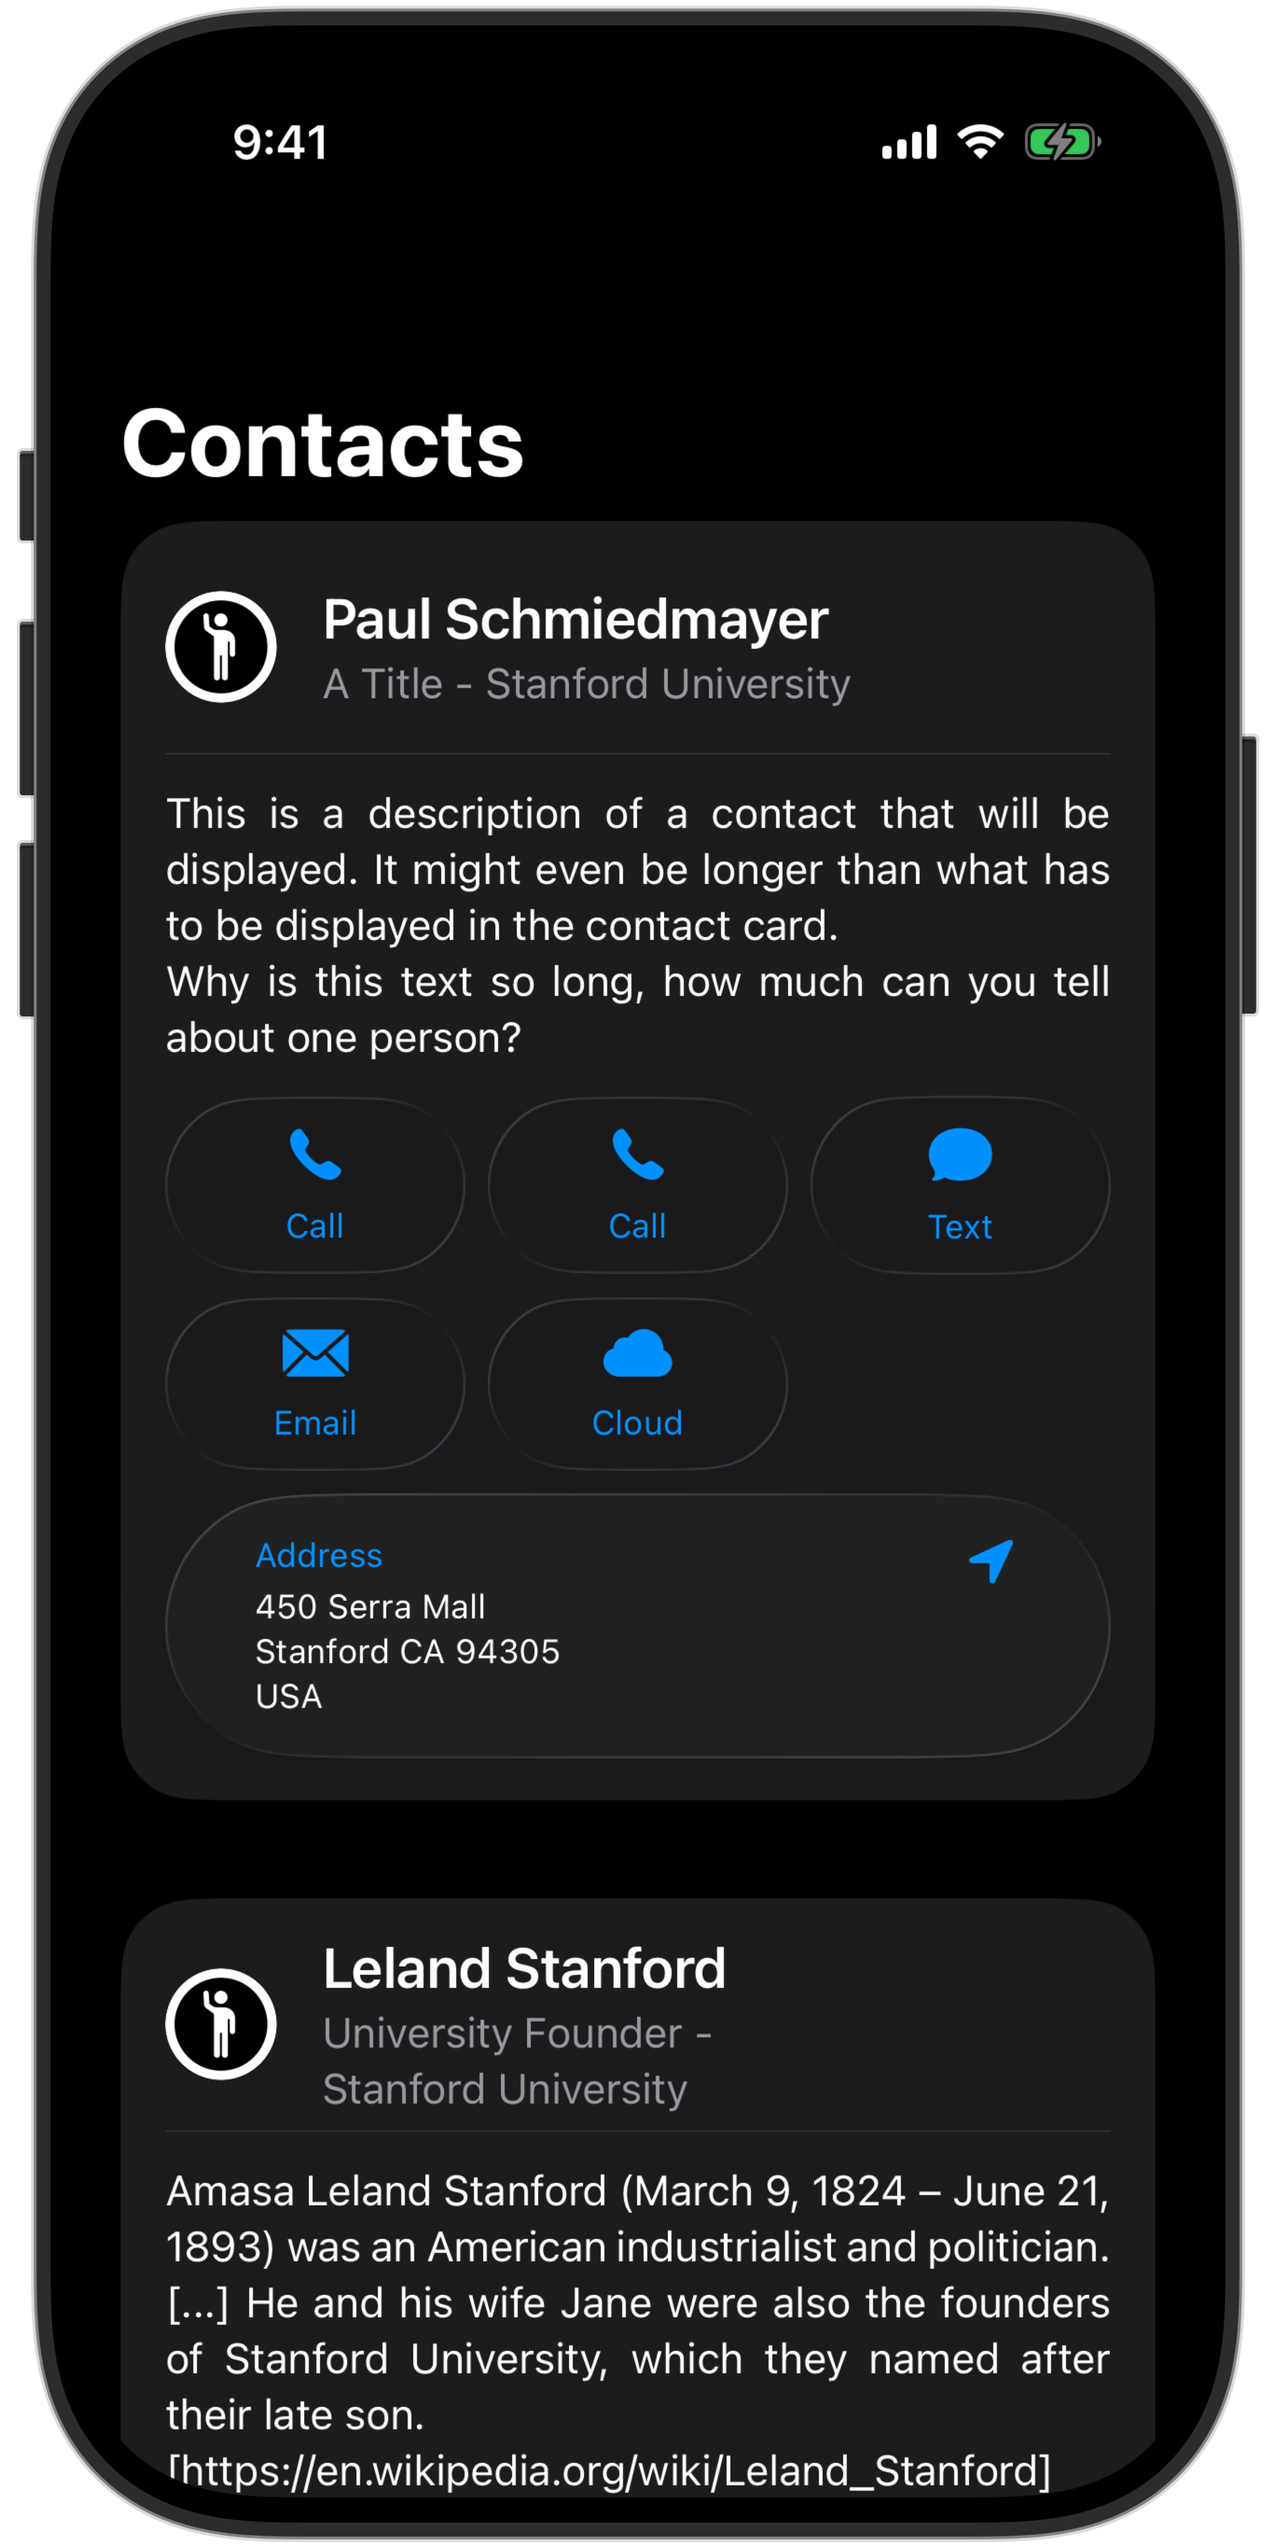
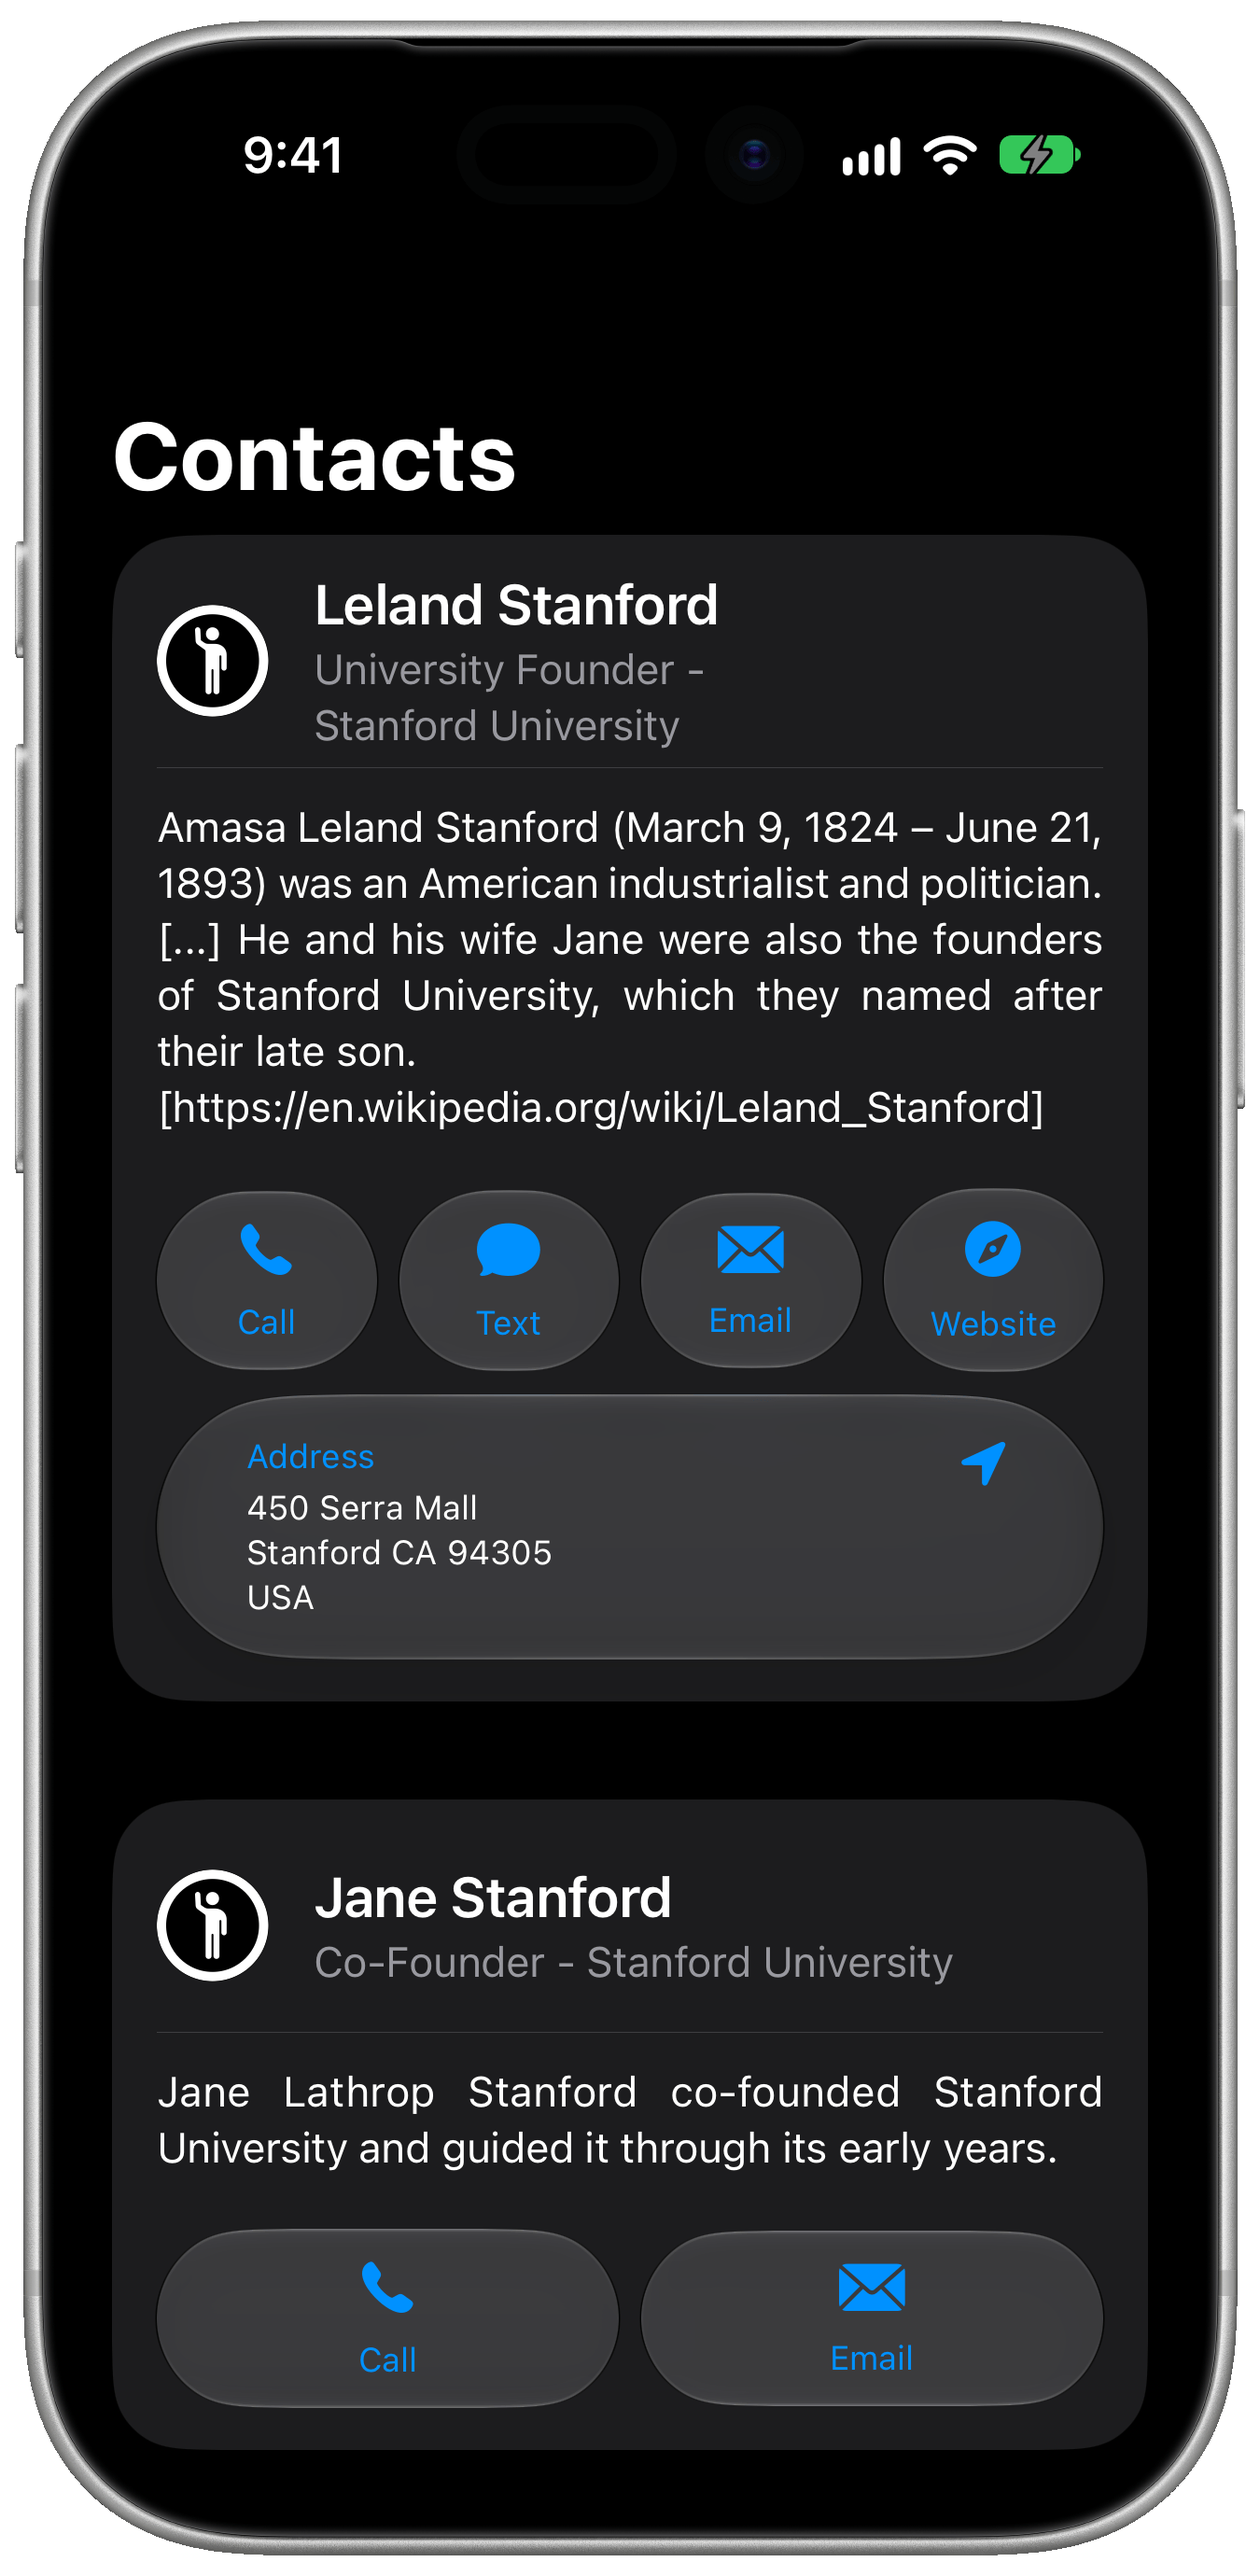
Update README screenshots for iOS 27 (#38)
Replace the single full-size screenshot with framed iPhone screenshots taken on iOS 27, each with a dark mode variant, and use the Stanford founders as sample contacts to match.

diff --git a/Tests/UITests/TestAppUITests/SpeziContactsTests.swift b/Tests/UITests/TestAppUITests/SpeziContactsTests.swift
@@ -18,7 +18,7 @@ final class ContactsTests: XCTestCase {
         XCTAssertTrue(app.wait(for: .runningForeground, timeout: 2.0))
 
 
-        XCTAssertTrue(app.staticTexts["Contact: Paul Schmiedmayer"].waitForExistence(timeout: 2.0))
+        XCTAssertTrue(app.staticTexts["Contact: Jane Stanford"].waitForExistence(timeout: 2.0))
         XCTAssertTrue(app.staticTexts["A Title at Stanford University"].exists)
         
         let labelPredicate = NSPredicate(format: "label CONTAINS[c] %@", "This is a description")

diff --git a/Sources/SpeziContact/Contact Views/ContactView.swift b/Sources/SpeziContact/Contact Views/ContactView.swift
@@ -243,7 +243,7 @@ public struct ContactView: View {
 struct ContactView_Previews: PreviewProvider {
     static var mock: Contact {
         Contact(
-            name: PersonNameComponents(givenName: "Paul", familyName: "Schmiedmayer"),
+            name: PersonNameComponents(givenName: "Jane", familyName: "Stanford"),
             image: Image(systemName: "figure.wave.circle"),
             title: "A Title",
             description: """

diff --git a/Tests/UITests/TestApp/ContactsTestsView.swift b/Tests/UITests/TestApp/ContactsTestsView.swift
@@ -50,7 +50,7 @@ struct ContactsTestsView: View {
     )
 
     @MainActor static let mock = Contact(
-        name: PersonNameComponents(givenName: "Paul", familyName: "Schmiedmayer"),
+        name: PersonNameComponents(givenName: "Jane", familyName: "Stanford"),
         image: Image(systemName: "figure.wave.circle"), // swiftlint:disable:this accessibility_label_for_image
         title: "A Title",
         description: """

diff --git a/README.md b/README.md
@@ -22,9 +22,26 @@ Views to display contact information.
 
 The Spezi Contact Swift Package provides views and infrastructure to display contact information in an application.
 
-| ![Screenshot showing a ContactsList rendered within the Spezi Template Application.](Sources/SpeziContact/SpeziContact.docc/Resources/Overview.png#gh-light-mode-only) ![Screenshot showing a ContactsList rendered within the Spezi Template Application.](Sources/SpeziContact/SpeziContact.docc/Resources/Overview~dark.png#gh-dark-mode-only) |
- |:---:|
- | A [`ContactsList`](https://swiftpackageindex.com/stanfordspezi/spezicontact/documentation/spezicontact/contactslist) rendered in the Spezi Template Application. |
+<table>
+  <tr>
+    <td align="center" width="50%">
+      <picture>
+        <source media="(prefers-color-scheme: dark)" srcset="Sources/SpeziContact/SpeziContact.docc/Resources/Overview~dark.png">
+        <img src="Sources/SpeziContact/SpeziContact.docc/Resources/Overview.png" width="260" alt="Screenshot showing a ContactsList with two contacts.">
+      </picture>
+    </td>
+    <td align="center" width="50%">
+      <picture>
+        <source media="(prefers-color-scheme: dark)" srcset="Sources/SpeziContact/SpeziContact.docc/Resources/Contact~dark.png">
+        <img src="Sources/SpeziContact/SpeziContact.docc/Resources/Contact.png" width="260" alt="Screenshot showing a single contact with call, text, email, website, and address options.">
+      </picture>
+    </td>
+  </tr>
+  <tr>
+    <td align="center">A <a href="https://swiftpackageindex.com/stanfordspezi/spezicontact/documentation/spezicontact/contactslist"><code>ContactsList</code></a> with two contacts.</td>
+    <td align="center">A single contact with its contact options and address.</td>
+  </tr>
+</table>
 
 ## Setup
 

diff --git a/Sources/SpeziContact/SpeziContact.docc/SpeziContact.md b/Sources/SpeziContact/SpeziContact.docc/SpeziContact.md
@@ -19,8 +19,13 @@ The Spezi Contact Swift Package provides views and infrastructure to display con
 
 @Row {
     @Column {
-        @Image(source: "Overview", alt: "Screenshow showing a ContactsList rendered within the Spezi Template Application.") {
-            A ``ContactsList`` rendered in the Spezi Template Application.
+        @Image(source: "Overview", alt: "Screenshot showing a ContactsList with two contacts.") {
+            A ``ContactsList`` with two contacts.
+        }
+    }
+    @Column {
+        @Image(source: "Contact", alt: "Screenshot showing a single contact with call, text, email, website, and address options.") {
+            A single contact with its contact options and address.
         }
     }
 }
